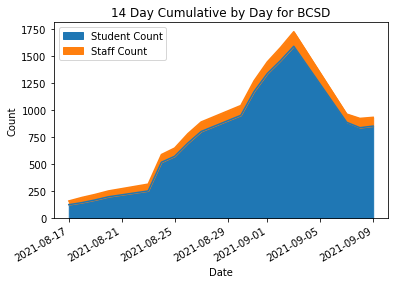
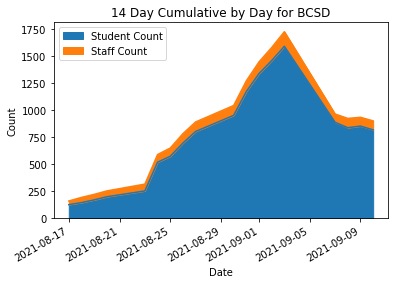
Report created by Github actions on 2021-09-10

diff --git a/output/report.md b/output/report.md
@@ -31,10 +31,6 @@ This notebook provides various processing and infographics on COVID dashboard re
 
 ###  By Student Count
 
-    Data is not available for today: 2021-09-10
-    Most recent date with data is 2021-09-09
-
-
 
 
 
@@ -53,49 +49,49 @@ This notebook provides various processing and infographics on COVID dashboard re
 </thead>
 <tbody>
 <tr>
-<th>702</th>
+<th>763</th>
+<td>Cane Bay Middle</td>
+<td>2021-09-10</td>
+<td>2</td>
+<td>62</td>
+<td>4.0</td>
+<td>301.0</td>
+</tr>
+<tr>
+<th>755</th>
 <td>Berkeley Middle</td>
-<td>2021-09-09</td>
-<td>6</td>
-<td>63</td>
+<td>2021-09-10</td>
+<td>5</td>
+<td>57</td>
 <td>1.0</td>
 <td>238.0</td>
 </tr>
 <tr>
-<th>710</th>
-<td>Cane Bay Middle</td>
-<td>2021-09-09</td>
-<td>2</td>
-<td>63</td>
-<td>4.0</td>
-<td>272.0</td>
-</tr>
-<tr>
-<th>740</th>
+<th>793</th>
 <td>Stratford High</td>
-<td>2021-09-09</td>
+<td>2021-09-10</td>
 <td>3</td>
-<td>42</td>
+<td>43</td>
 <td>0.0</td>
-<td>220.0</td>
+<td>233.0</td>
 </tr>
 <tr>
-<th>745</th>
+<th>798</th>
 <td>Whitesville Elementary</td>
-<td>2021-09-09</td>
+<td>2021-09-10</td>
 <td>8</td>
 <td>42</td>
-<td>2.0</td>
-<td>111.0</td>
+<td>5.0</td>
+<td>133.0</td>
 </tr>
 <tr>
-<th>700</th>
+<th>753</th>
 <td>Berkeley High School</td>
-<td>2021-09-09</td>
-<td>3</td>
-<td>35</td>
+<td>2021-09-10</td>
+<td>5</td>
+<td>37</td>
 <td>1.0</td>
-<td>212.0</td>
+<td>200.0</td>
 </tr>
 </tbody>
 </table>
@@ -123,49 +119,49 @@ This notebook provides various processing and infographics on COVID dashboard re
 </thead>
 <tbody>
 <tr>
-<th>745</th>
+<th>798</th>
 <td>Whitesville Elementary</td>
-<td>2021-09-09</td>
+<td>2021-09-10</td>
 <td>8</td>
 <td>42</td>
-<td>2.0</td>
-<td>111.0</td>
+<td>5.0</td>
+<td>133.0</td>
 </tr>
 <tr>
-<th>730</th>
+<th>783</th>
 <td>Nexton Elementary</td>
-<td>2021-09-09</td>
-<td>7</td>
-<td>25</td>
+<td>2021-09-10</td>
+<td>6</td>
+<td>28</td>
 <td>1.0</td>
 <td>77.0</td>
 </tr>
 <tr>
-<th>702</th>
-<td>Berkeley Middle</td>
-<td>2021-09-09</td>
-<td>6</td>
-<td>63</td>
-<td>1.0</td>
-<td>238.0</td>
-</tr>
-<tr>
-<th>734</th>
-<td>Sangaree Elementary</td>
-<td>2021-09-09</td>
-<td>5</td>
-<td>30</td>
-<td>2.0</td>
-<td>84.0</td>
-</tr>
-<tr>
-<th>716</th>
+<th>769</th>
 <td>Devon Forest Elementary</td>
-<td>2021-09-09</td>
+<td>2021-09-10</td>
 <td>5</td>
 <td>11</td>
 <td>3.0</td>
-<td>62.0</td>
+<td>59.0</td>
+</tr>
+<tr>
+<th>753</th>
+<td>Berkeley High School</td>
+<td>2021-09-10</td>
+<td>5</td>
+<td>37</td>
+<td>1.0</td>
+<td>200.0</td>
+</tr>
+<tr>
+<th>755</th>
+<td>Berkeley Middle</td>
+<td>2021-09-10</td>
+<td>5</td>
+<td>57</td>
+<td>1.0</td>
+<td>238.0</td>
 </tr>
 </tbody>
 </table>
@@ -319,9 +315,9 @@ This notebook provides various processing and infographics on COVID dashboard re
 
 ### BCSD - 14 Day Cumulative reported daily
 
+    On 2021-09-10 Student Count: 816. Staff Count: 83
     On 2021-09-09 Student Count: 851. Staff Count: 81
-    On 2021-09-08 Student Count: 836. Staff Count: 86
-    Difference between 2021-09-09 and 2021-09-08. Student Count: 15. Staff Count: -5
+    Difference between 2021-09-10 and 2021-09-09. Student Count: -35. Staff Count: 2
 
 
 
@@ -339,9 +335,9 @@ This notebook provides various processing and infographics on COVID dashboard re
 
 ### Mount Holly Elementary
 
+    On 2021-09-10 Student Count: 21. Staff Count: 2
     On 2021-09-09 Student Count: 25. Staff Count: 2
-    On 2021-09-08 Student Count: 25. Staff Count: 2
-    Difference between 2021-09-09 and 2021-09-08. Student Count: 0. Staff Count: 0
+    Difference between 2021-09-10 and 2021-09-09. Student Count: -4. Staff Count: 0
 
 
 
@@ -359,9 +355,9 @@ This notebook provides various processing and infographics on COVID dashboard re
 
 ### Bonner Elementary
 
+    On 2021-09-10 Student Count: 18. Staff Count: 4
     On 2021-09-09 Student Count: 20. Staff Count: 4
-    On 2021-09-08 Student Count: 17. Staff Count: 4
-    Difference between 2021-09-09 and 2021-09-08. Student Count: 3. Staff Count: 0
+    Difference between 2021-09-10 and 2021-09-09. Student Count: -2. Staff Count: 0
 
 
 
@@ -375,4 +371,12 @@ This notebook provides various processing and infographics on COVID dashboard re
     
 ![png](report_files/report_22_2.png)
     
+
+
+
+```python
+print(f'This file generated on {datetime.utcnow()} UTC')
+```
+
+    This file generated on 2021-09-10 23:46:41.674013 UTC
 
